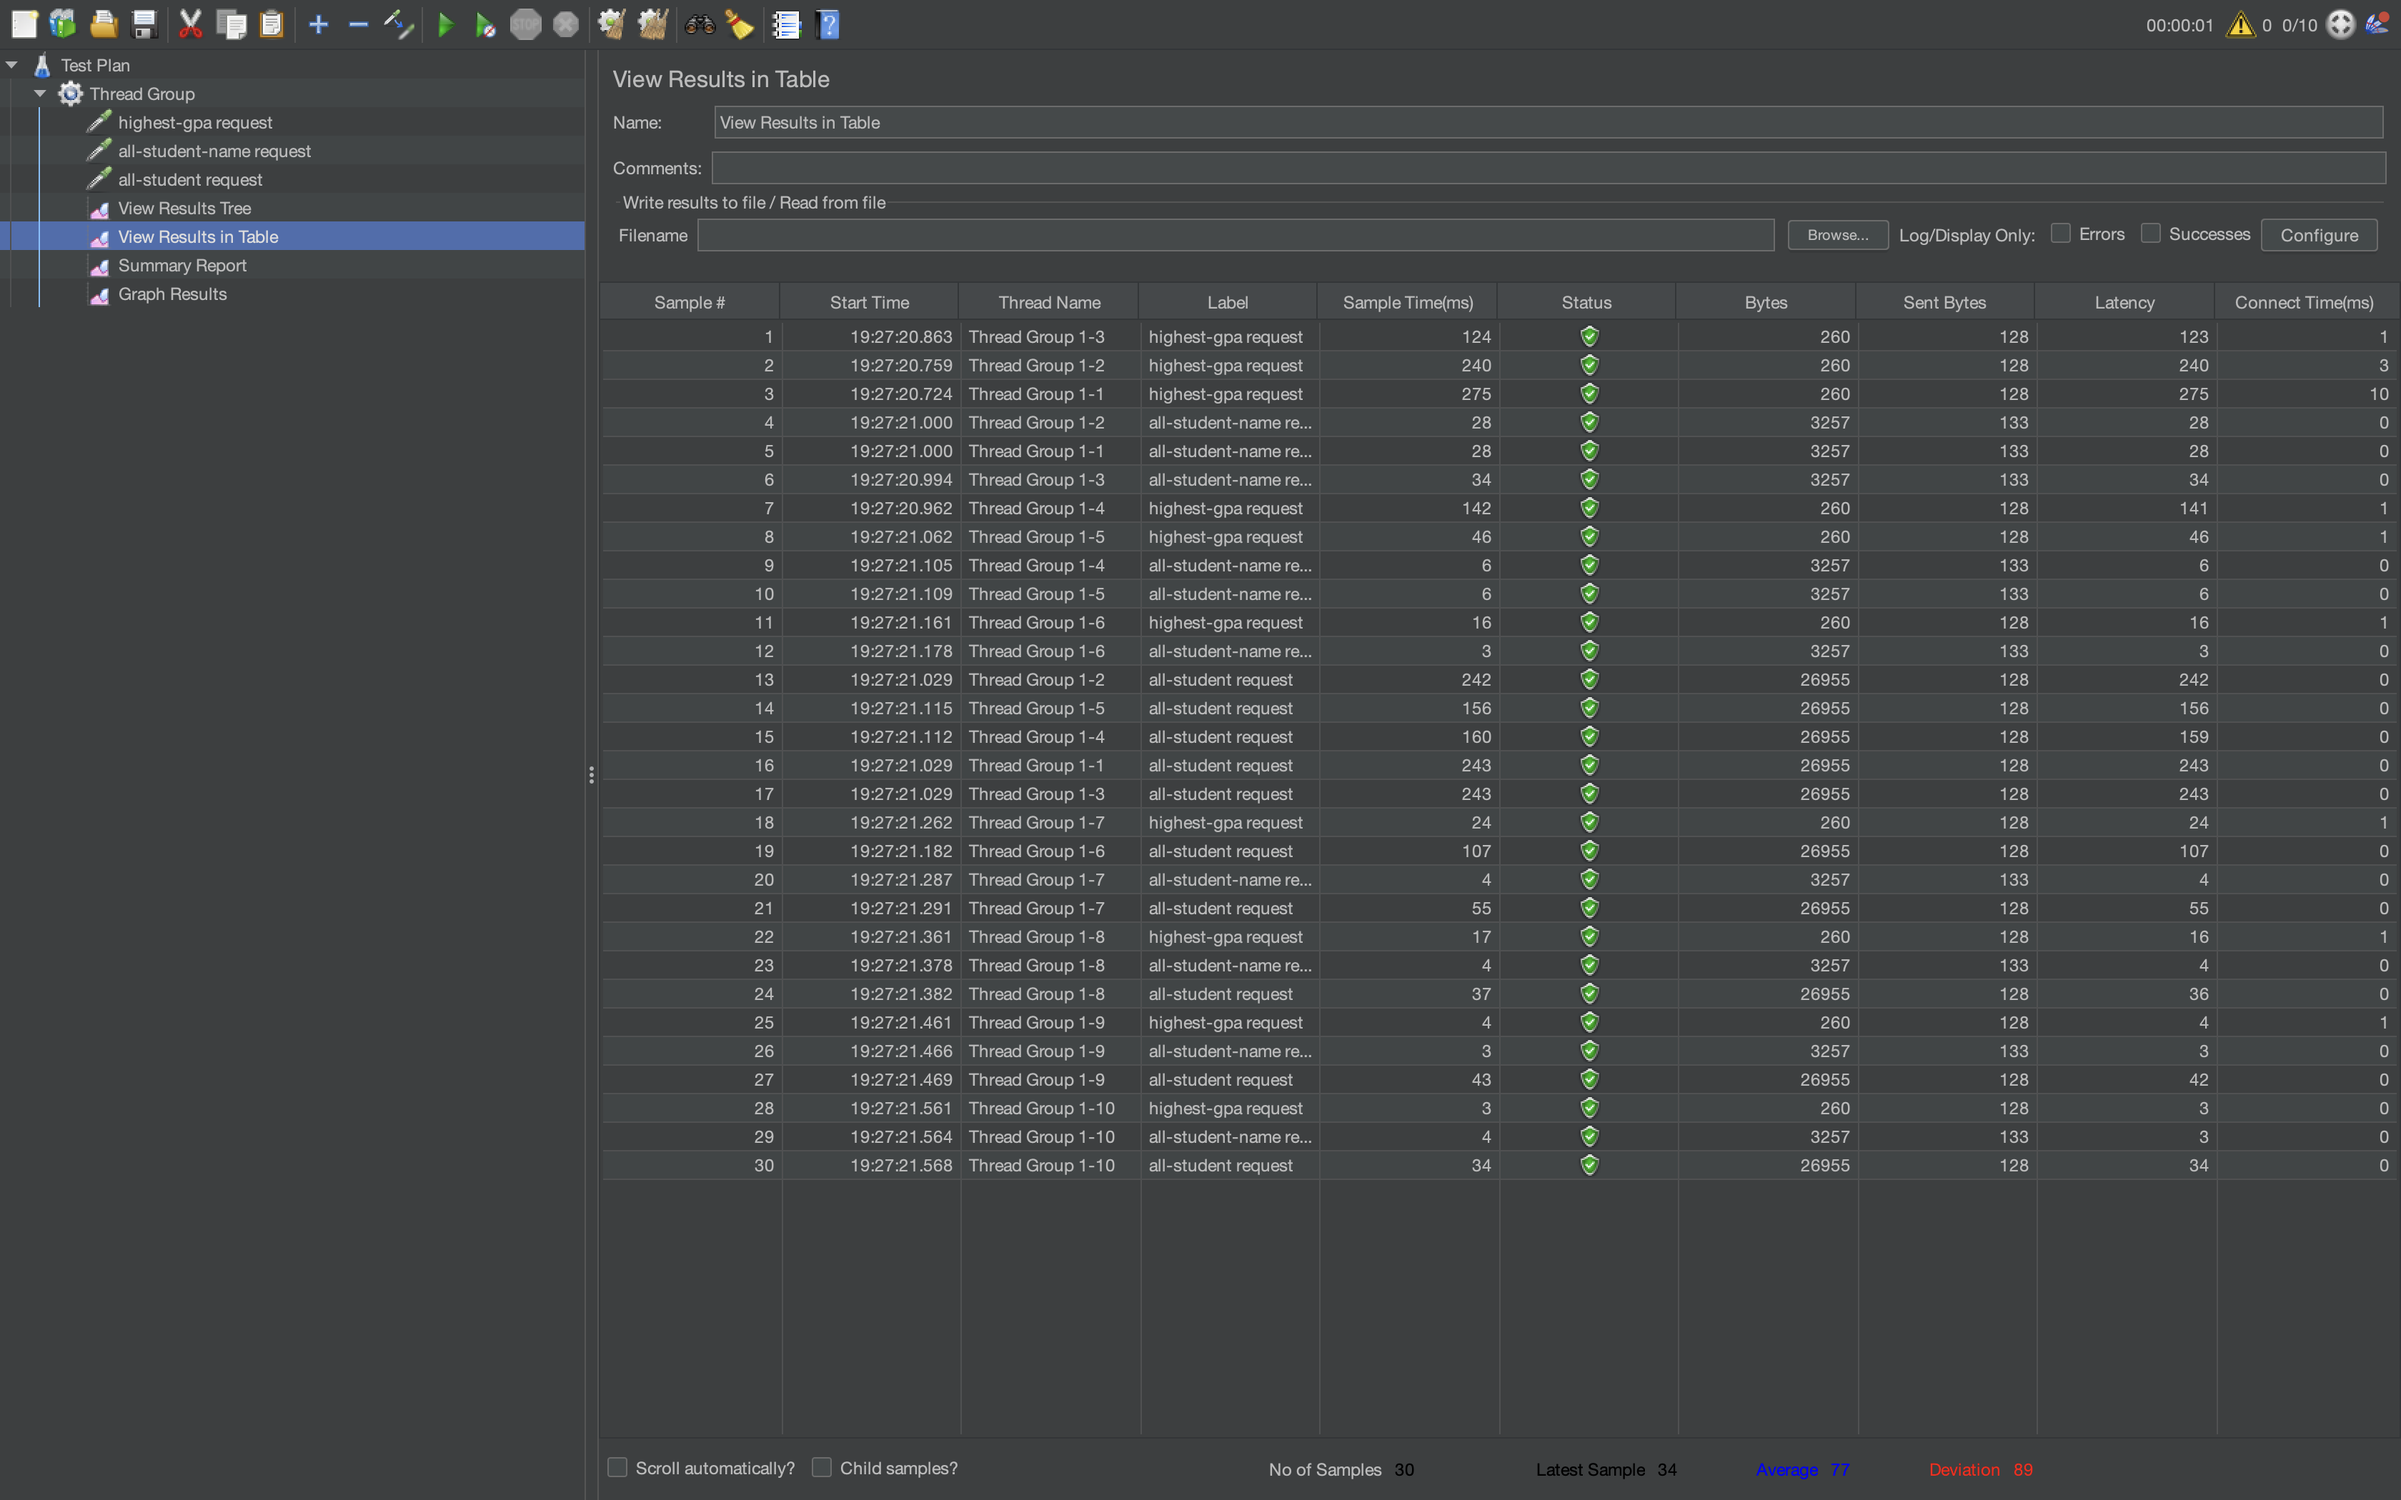
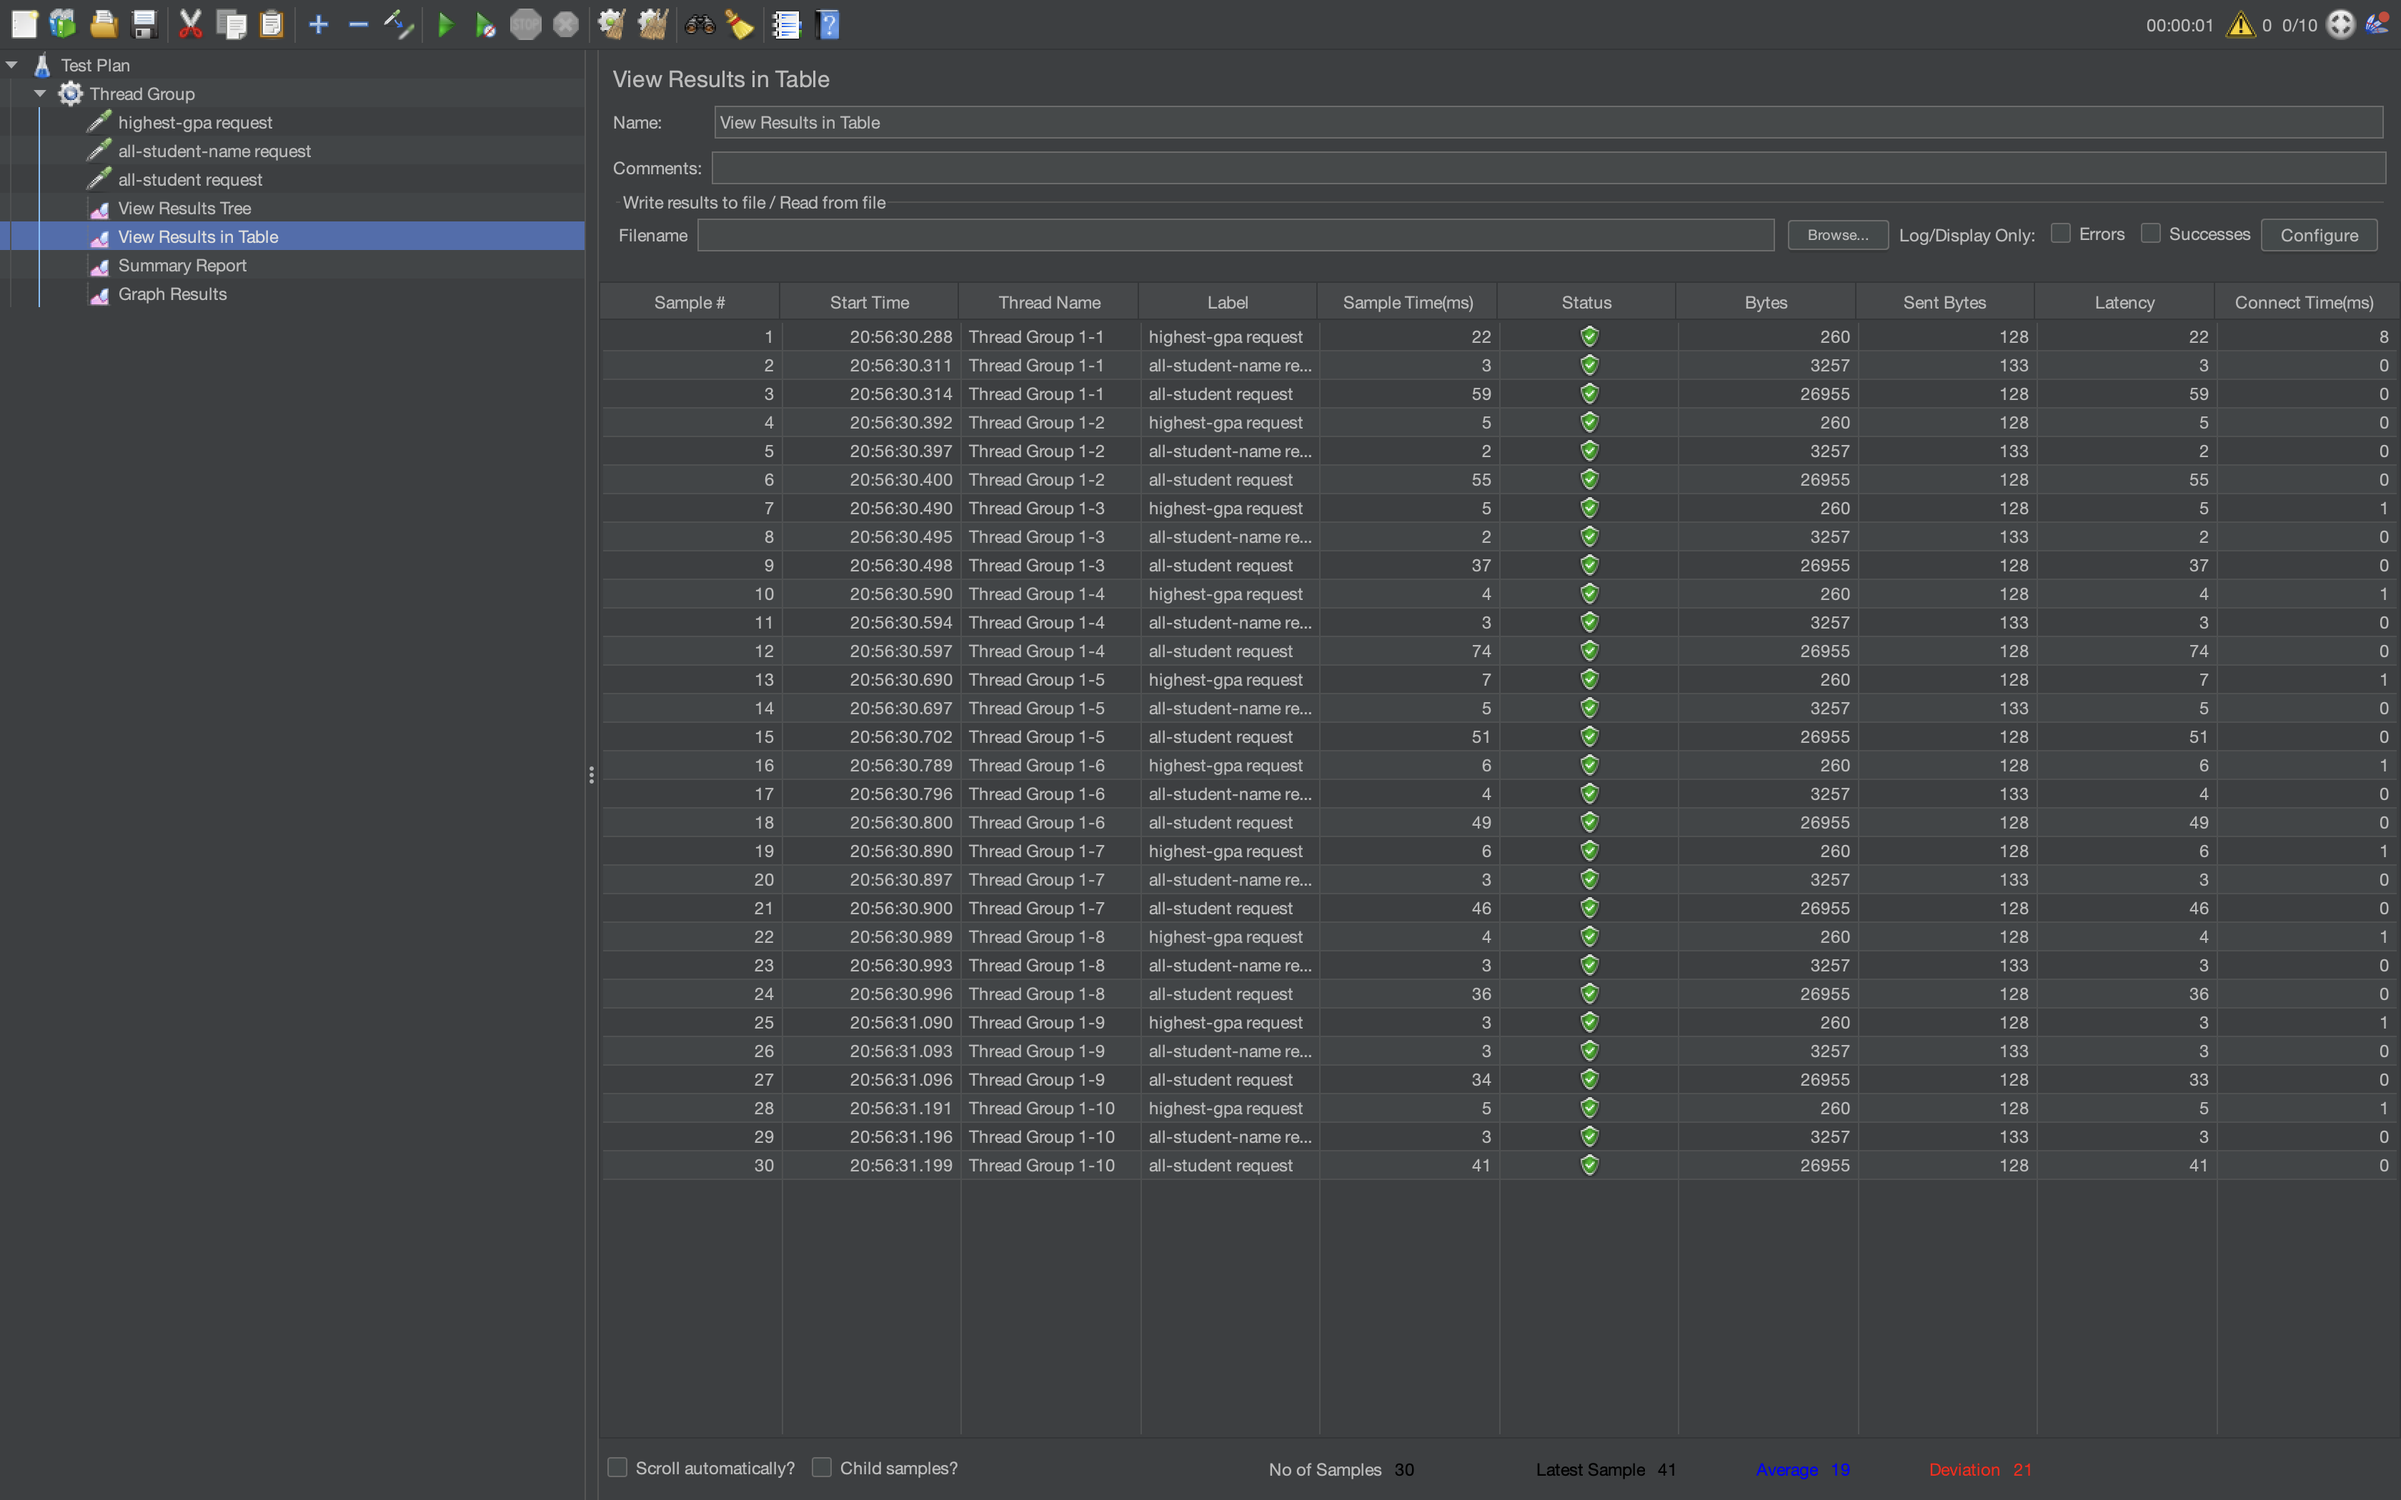
Fix Readme

diff --git a/README.md b/README.md
@@ -11,9 +11,9 @@
 ![Highest GPA jtl Results](./screenshots/testresults3.png)
 
 ## 5. Refactoring Result
-![Before Refactoring](./screenshots/proofbeforerefactor.png)
+![Before Refactoring](./screenshots/highest-gpa.png)
 ![After Refactoring Results](./screenshots/refactor.png)
-After refactoring, the average time is 77ms while before refactor was 148ms so the improvement is around 47.97%
+After refactoring, the average time is 19ms while before refactor was 40ms.
 
 # Reflection
 1. JMeter is testing from outside like a user to see how fast the response is for the web. But profiler is looking deep inside the Java code to find which method is using all the CPU power.
